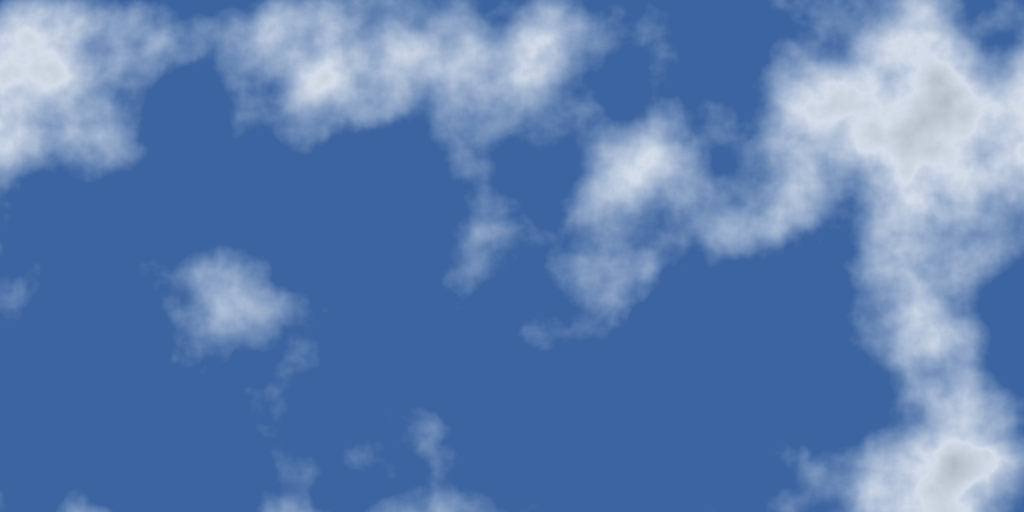
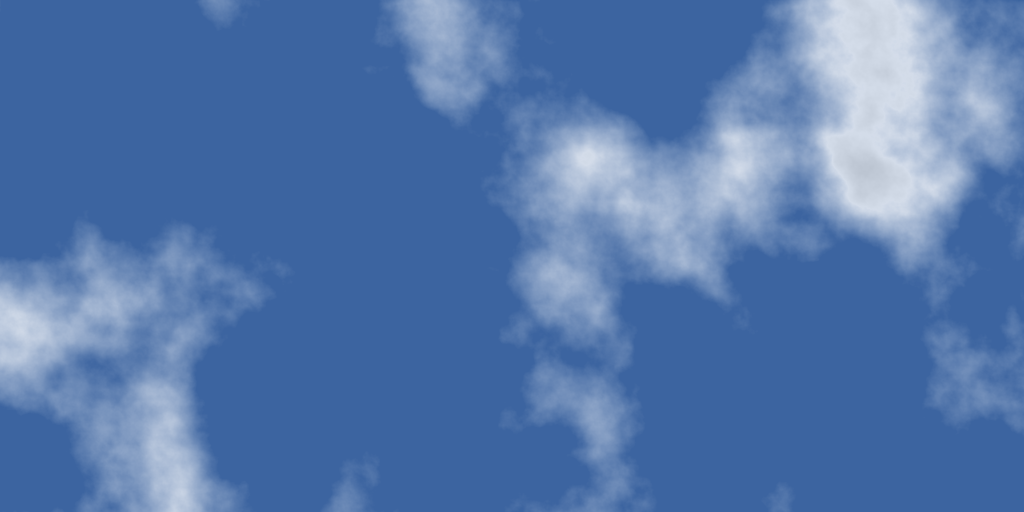
Update

diff --git a/docs/index.html b/docs/index.html
@@ -3,6 +3,6 @@
 <body>
 Today's cloud<br/>
 <img src="latest.png"/><br/>
-Latest update: Tue Feb  2 22:10:24 UTC 2021
+Latest update: Wed Feb  3 22:08:53 UTC 2021
 </body>
 </html>
